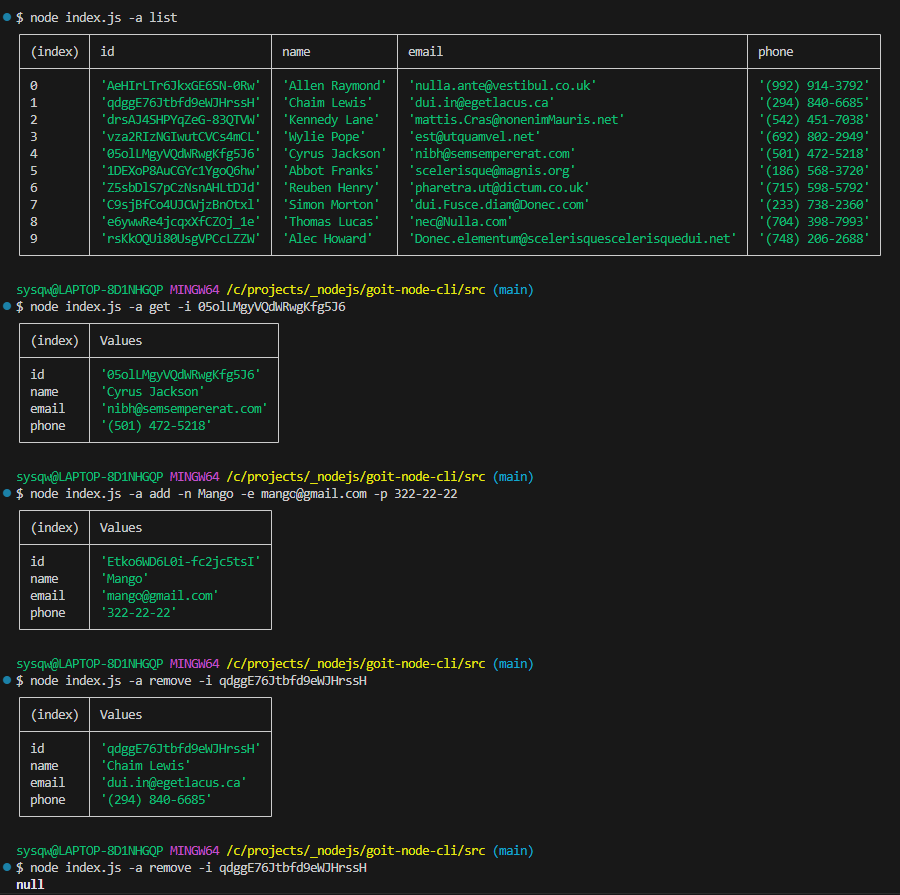
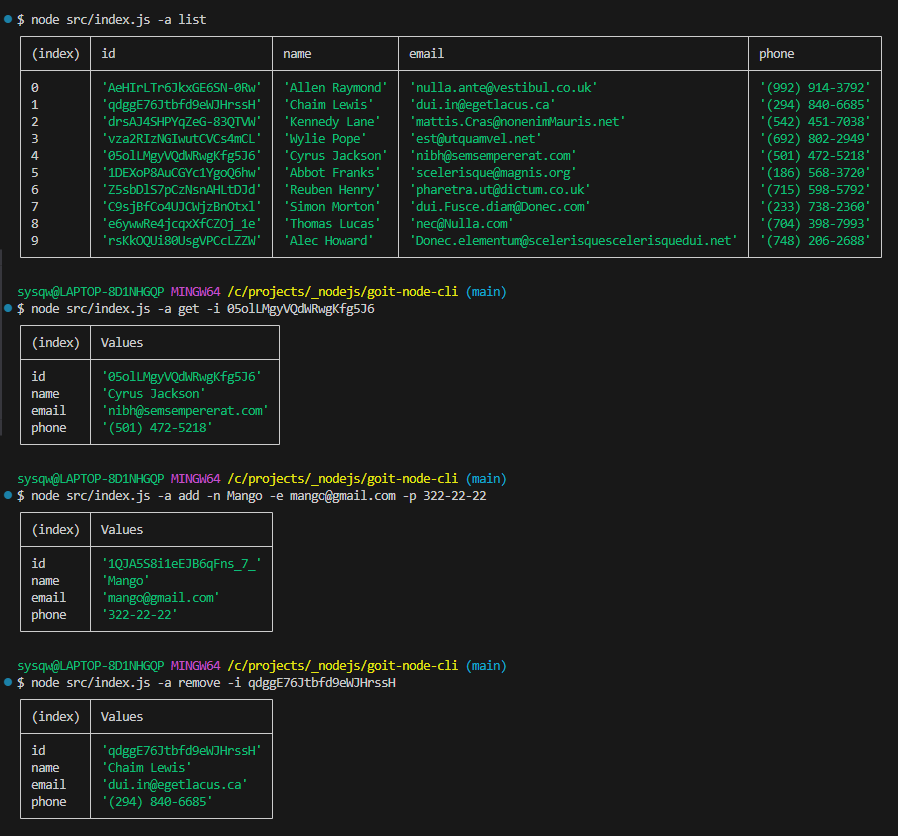
fix contactsPath

Changed region(s): [[0.0, 0.0, 0.9978, 0.9952]]

diff --git a/src/contacts.js b/src/contacts.js
@@ -1,15 +1,20 @@
-import path from "path";
-import fs from "fs/promises";
+import path from "node:path";
+import fs from "node:fs/promises";
 import { nanoid } from "nanoid";
 
-const contactsPath = path.join("db", "contacts.json");
+const contactsPath = path.resolve("src", "db", "contacts.json");
 
 /**
  * Gets all contacts from followed by path file
  * @returns {Promise<object[]>}
  */
 async function listContacts() {
-  return JSON.parse(await fs.readFile(contactsPath, "utf-8"));
+  try {
+    return JSON.parse(await fs.readFile(contactsPath, "utf-8"));
+  } catch (error) {
+    console.log("Error reading contacts file: ", error.message);
+    return [];
+  }
 }
 
 /**
@@ -38,7 +43,12 @@ async function removeContact(contactId) {
   }
 
   const [removedContact] = allContacts.splice(contactIndex, 1); // Видаляємо контакт за його індексом
-  await fs.writeFile(contactsPath, JSON.stringify(allContacts, null, 2)); // Перезаписуємо файл
+
+  try {
+    await fs.writeFile(contactsPath, JSON.stringify(allContacts, null, 2));
+  } catch (error) {
+    console.log("Error writing contacts file: ", error.message);
+  }
 
   return removedContact;
 }
@@ -54,7 +64,13 @@ async function addContact(name, email, phone) {
   const allContacts = await listContacts(); // Отримуємо всі контакти
   const newContact = { id: nanoid(), name, email, phone }; // Створюємо новий контакт
   allContacts.push(newContact); // Додаємо новий контакт до масиву контактів
-  await fs.writeFile(contactsPath, JSON.stringify(allContacts, null, 2)); // Перезаписуємо файл
+
+  try {
+    await fs.writeFile(contactsPath, JSON.stringify(allContacts, null, 2));
+  } catch (error) {
+    console.log("Error writing contacts file: ", error.message);
+  }
+
   return newContact;
 }
 
